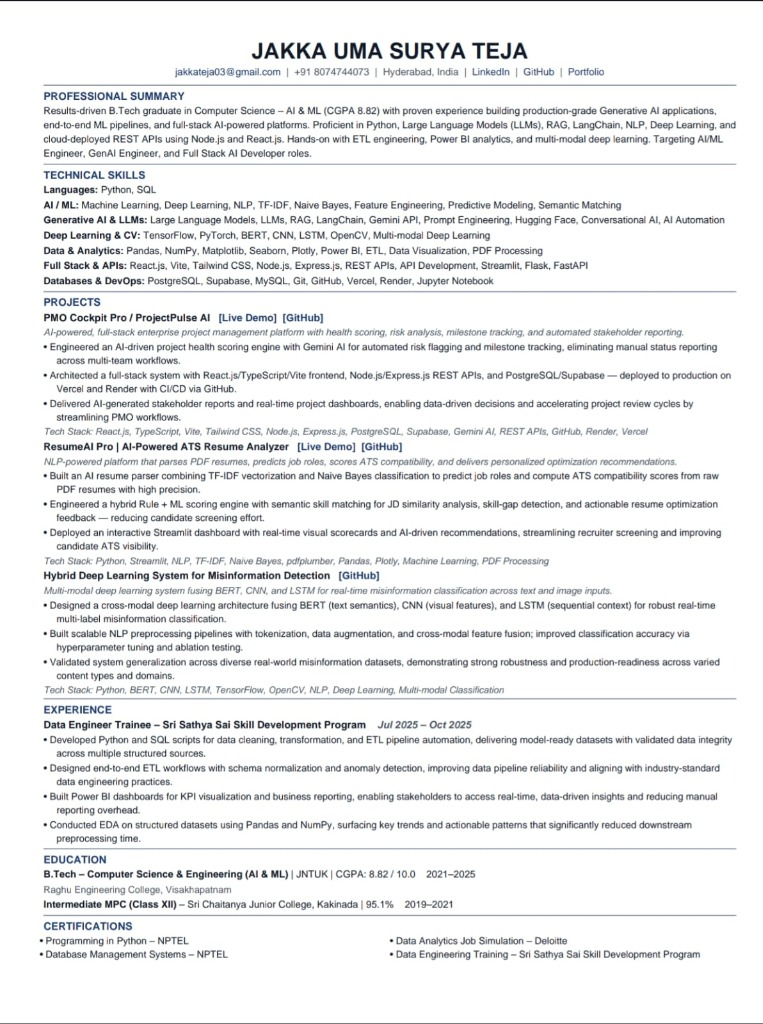
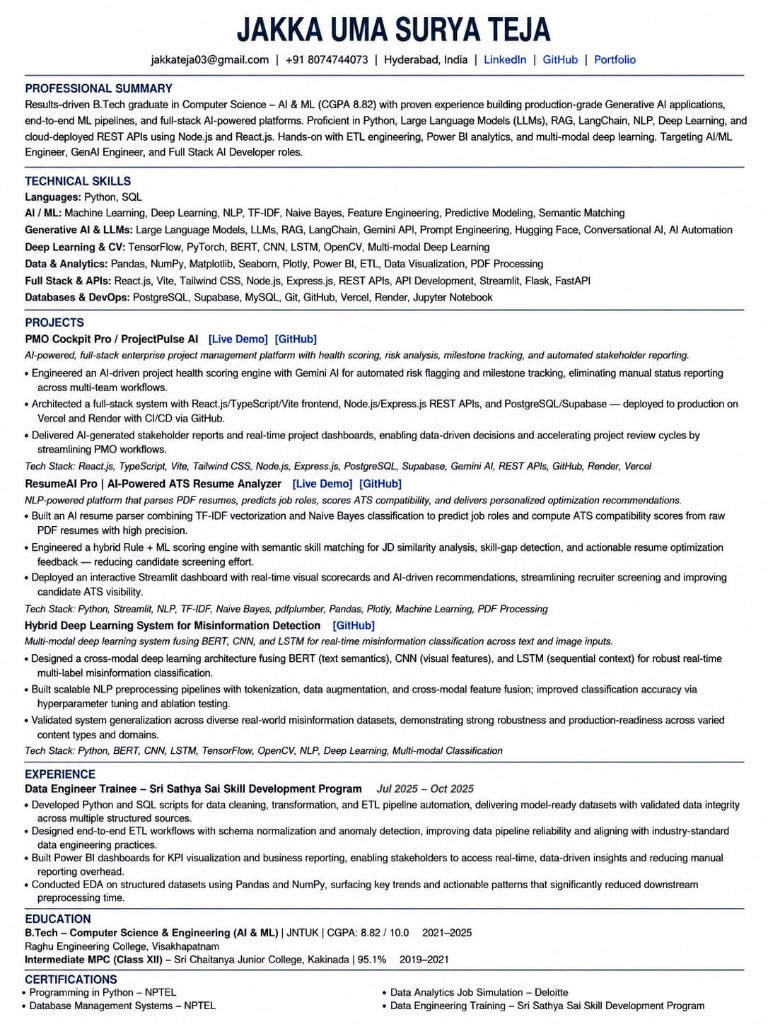
feat: update AI Projects count to 4+, reorder project tabs, and replace blurry resume preview with high-quality asset

diff --git a/components/Projects.tsx b/components/Projects.tsx
@@ -228,7 +228,7 @@ export default function Projects() {
   const ref = useRef<HTMLElement>(null)
   const isInView = useInView(ref, { once: true, amount: 0.1 })
 
-  const projects = activeTab === 'ai' ? AI_PROJECTS : activeTab === 'data' ? DATA_PROJECTS : AI_FULLSTACK_PROJECTS
+  const projects = activeTab === 'ai' ? AI_PROJECTS : activeTab === 'ai-fullstack' ? AI_FULLSTACK_PROJECTS : DATA_PROJECTS
 
   return (
     <section id="projects" ref={ref} className="py-24 relative" aria-label="Projects section">
@@ -249,7 +249,7 @@ export default function Projects() {
           aria-label="Project categories"
         >
           <div className="flex gap-1 p-1 rounded-xl bg-surface border border-[rgba(34,211,238,0.12)]">
-            {(['ai', 'data', 'ai-fullstack'] as const).map((tab) => (
+            {(['ai', 'ai-fullstack', 'data'] as const).map((tab) => (
               <button
                 key={tab}
                 role="tab"

diff --git a/components/About.tsx b/components/About.tsx
@@ -8,7 +8,7 @@ import SectionHeader from '@/components/ui/SectionHeader'
 
 /** Stats shown as floating badges overlaid on the photo */
 const PHOTO_STATS = [
-  { icon: BrainCircuit, value: '3+', label: 'AI Projects',      color: 'text-accent',     bg: 'rgba(34,211,238,0.12)',  border: 'rgba(34,211,238,0.3)' },
+  { icon: BrainCircuit, value: '4+', label: 'AI Projects',      color: 'text-accent',     bg: 'rgba(34,211,238,0.12)',  border: 'rgba(34,211,238,0.3)' },
   { icon: Database,     value: '2+', label: 'Data Projects',    color: 'text-cyan-300',   bg: 'rgba(103,232,249,0.10)', border: 'rgba(103,232,249,0.25)' },
   { icon: Briefcase,    value: '1',  label: 'Internship',       color: 'text-blue-400',   bg: 'rgba(96,165,250,0.12)',  border: 'rgba(96,165,250,0.25)' },
   { icon: Award,        value: '4',  label: 'Certifications',   color: 'text-purple-400', bg: 'rgba(192,132,252,0.12)', border: 'rgba(192,132,252,0.25)' },
